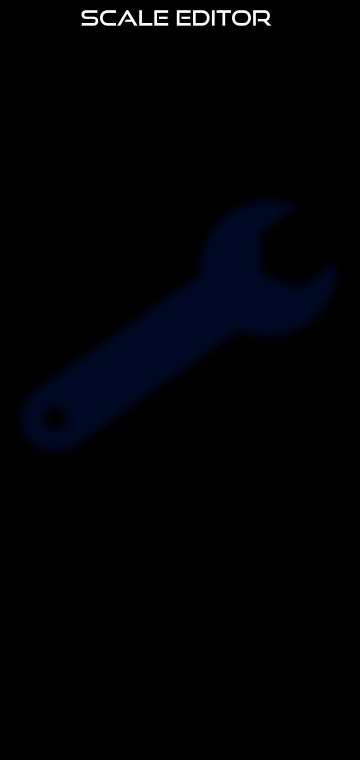
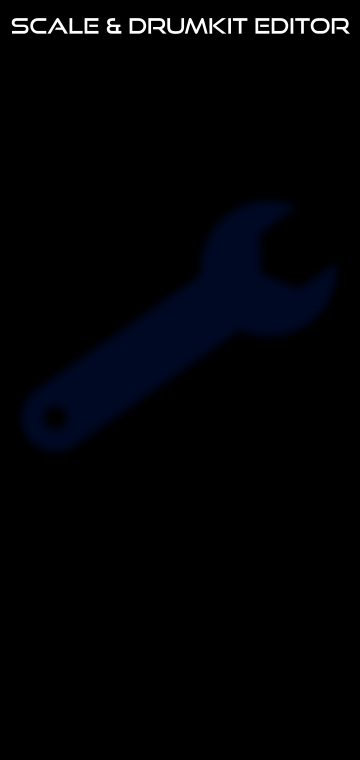
Scale editor: edit name and alt symbols
* Dynamic scaleEditor widget
* Editable scale name and alt symbols
* Use new onCloseRequest
* Callbacks changed
* Background image: Add 'drumkit'

Changed region(s): [[0.0306, 0.0, 0.9778, 0.0605]]

diff --git a/src/BSEQuencer_GUI.cpp b/src/BSEQuencer_GUI.cpp
@@ -86,7 +86,8 @@ BSEQuencer_GUI::BSEQuencer_GUI (const char *bundle_path, const LV2_Feature *cons
 	propertiesScaleListBox (100, 175, 150, 20, 0, -380, 150, 380, "menu", scaleItems, 0.0),
 
 	helpLabel (1140, 40, 30, 30, "ilabel", "?"),
-	scaleEditor (420, 20, 360, 760, "scaleeditor", (bundle_path ? std::string (bundle_path) : std::string ("")), 0, ScaleMap (), BScale (0,defaultScale))
+	scaleEditor (nullptr)
+	//(420, 20, 360, 760, "scaleeditor", (bundle_path ? std::string (bundle_path) : std::string ("")), 0, ScaleMap (), BScale (0,defaultScale))
 
 {
 	// Init scale maps
@@ -196,7 +197,6 @@ BSEQuencer_GUI::BSEQuencer_GUI (const char *bundle_path, const LV2_Feature *cons
 
 	helpLabel.setCallbackFunction(BEvents::BUTTON_PRESS_EVENT, helpPressedCallback);
 	propertiesScaleEditIcon.setCallbackFunction(BEvents::BUTTON_PRESS_EVENT, editPressedCallback);
-	scaleEditor.setCallbackFunction(BEvents::VALUE_CHANGED_EVENT, editorCloseCallback);
 
 	// Apply theme
 	bgImageSurface = cairo_image_surface_create_from_png ((pluginPath + BG_FILE).c_str());
@@ -321,8 +321,11 @@ BSEQuencer_GUI::BSEQuencer_GUI (const char *bundle_path, const LV2_Feature *cons
 
 BSEQuencer_GUI::~BSEQuencer_GUI ()
 {
+	if (scaleEditor) delete scaleEditor;
+
 	BWidgets::FocusWidget* focus = padSurface.getFocusWidget();
 	if (focus) delete focus;
+
 	send_ui_off ();
 }
 
@@ -664,7 +667,7 @@ void BSEQuencer_GUI::scale ()
 	propertiesScaleListBox.resizeListBoxItems (150 * sz, 20 * sz);
 
 	RESIZE (helpLabel, 1140, 40, 30, 30, sz);
-	RESIZE (scaleEditor, 420, 20, 360, 760, sz);
+	if (scaleEditor) RESIZE ((*scaleEditor), 420, 20, 360, 760, sz);
 
 	for (int i = 0; i < NR_SEQUENCER_CHS; ++i)
 	{
@@ -802,6 +805,33 @@ void BSEQuencer_GUI::onConfigureRequest (BEvents::ExposeEvent* event)
 
 	sz = (width_ / 1200 > height_ / 820 ? height_ / 820 : width_ / 1200);
 	scale ();
+}
+
+void BSEQuencer_GUI::onCloseRequest (BEvents::WidgetEvent* event)
+{
+	if (event && (scaleEditor) && (event->getRequestWidget () == scaleEditor))
+	{
+		int mapNr = scaleEditor->getMapNr();
+		scaleNotes[mapNr] = scaleEditor->getScale().getScale();
+		scaleMaps[mapNr] = scaleEditor->getScaleMap();
+
+		// Update captions
+		if (controllers[SCALE] == mapNr) drawCaption();
+
+		// Update scale listbox
+		BItems::ItemList::iterator it = std::next (propertiesScaleListBox.getItemList()->begin (), mapNr);
+		BWidgets::Label* l = (BWidgets::Label*) (*it).getWidget ();
+		if (l) l->setText (scaleMaps[mapNr].name);
+		propertiesScaleListBox.update();
+
+		// Notify plugin
+		send_scaleMaps (mapNr);
+
+		// And close / delete
+		delete scaleEditor;
+		scaleEditor = nullptr;
+	}
+	else Window::onCloseRequest (event);
 }
 
 void BSEQuencer_GUI::send_ui_on ()
@@ -950,22 +980,23 @@ void BSEQuencer_GUI::editPressedCallback (BEvents::Event* event)
 		BSEQuencer_GUI* ui = (BSEQuencer_GUI*)(((BWidgets::Widget*)(event->getWidget()))->getMainWindow());
 		int mapNr = ui->propertiesScaleListBox.getValue();
 
-		if (ui->scaleEditor.getParent()) ui->scaleEditor.getParent()->release (&(ui->scaleEditor));
-
-		ui->scaleEditor.setValue (0.0);
-		ui->scaleEditor.setMapNr (mapNr);
-		ui->scaleEditor.setScale
-		(
-			BScale
+		if (!ui->scaleEditor)
+		{
+			ui->scaleEditor = new ScaleEditor
 			(
-				(int (ui->controllers[ROOT] + ui->controllers[SIGNATURE] + 12)) % 12,
-				(SignatureIndex) ui->controllers[SIGNATURE],
-				ui->scaleNotes[mapNr]
-			)
-		);
-		ui->scaleEditor.setScaleMap (ui->scaleMaps[mapNr]);
-		ui->scaleEditor.moveTo (420, 20);
-		ui->add (ui->scaleEditor);
+				420, 20, 360, 760, "scaleeditor",
+				ui->pluginPath,
+				mapNr,
+				ui->scaleMaps[mapNr],
+				BScale
+				(
+					(int (ui->controllers[ROOT] + ui->controllers[SIGNATURE] + 12)) % 12,
+					(SignatureIndex) ui->controllers[SIGNATURE],
+					ui->scaleNotes[mapNr]
+				)
+			);
+			ui->add (*ui->scaleEditor);
+		}
 	}
 }
 
@@ -1023,30 +1054,6 @@ void BSEQuencer_GUI::undoClickedCallback (BEvents::Event* event)
 				ui->drawPad ();
 			}
 		}
-	}
-}
-
-void BSEQuencer_GUI::editorCloseCallback (BEvents::Event* event)
-{
-	if ((event) && (event->getWidget ()) && (event->getWidget()->getMainWindow()))
-	{
-		ScaleEditor* scaleEditor = (ScaleEditor*)(event->getWidget());
-		BSEQuencer_GUI* ui = (BSEQuencer_GUI*)(scaleEditor->getMainWindow());
-		double val = scaleEditor->getValue();
-		if (val == 1.0)
-		{
-			int mapNr = scaleEditor->getMapNr();
-			ui->scaleNotes[mapNr] = scaleEditor->getScale().getScale();
-			ui->scaleMaps[mapNr] = scaleEditor->getScaleMap();
-
-			// Update captions
-			if (ui->controllers[SCALE] == mapNr) ui->drawCaption();
-
-			// Notify plugin
-			ui->send_scaleMaps (mapNr);
-		}
-
-		if ((val == 1.0) || (val == -1.0)) ui->release (scaleEditor);
 	}
 }
 

diff --git a/src/ScaleEditor.hpp b/src/ScaleEditor.hpp
@@ -55,6 +55,8 @@ protected:
 	static void symbolListboxValueChangedCallback (BEvents::Event* event);
 	static void noteListboxValueChangedCallback (BEvents::Event* event);
 	static void buttonClickCallback (BEvents::Event* event);
+	static void labelClickCallback (BEvents::Event* event);
+	static void labelMessageCallback (BEvents::Event* event);
 	static void pianoClickCallback (BEvents::Event* event);
 
 	BWidgets::Label nameLabel;
@@ -161,6 +163,10 @@ ScaleEditor::ScaleEditor(const double x, const double y, const double width, con
 	bgSurface = cairo_image_surface_create_from_png ((pluginPath + "ScaleEditor.png").c_str());
 	scaleEditorBg.loadFillFromCairoSurface(bgSurface);
 
+	scaleNameLabel.setEditable (true);
+	scaleNameLabel.setCallbackFunction(BEvents::BUTTON_PRESS_EVENT, labelClickCallback);
+	scaleNameLabel.setCallbackFunction(BEvents::MESSAGE_EVENT, labelMessageCallback);
+
 	// Create note symbols (for nrListbox)
 	BScale sc = BScale(0, {CROMATICSCALE});
 	std::list<BItems::Item> noteNameItems;
@@ -212,6 +218,9 @@ ScaleEditor::ScaleEditor(const double x, const double y, const double width, con
 
 		nrAltSymbolLabel[i] = BWidgets::Label (248, 580 - i * 30, 80, 24, "ctlabel", "");
 		nrAltSymbolLabel[i].rename ("ctlabel");
+		nrAltSymbolLabel[i].setEditable (true);
+		nrAltSymbolLabel[i].setCallbackFunction(BEvents::BUTTON_PRESS_EVENT, labelClickCallback);
+		nrAltSymbolLabel[i].setCallbackFunction(BEvents::MESSAGE_EVENT, labelMessageCallback);
 		updateAltSymbol (i);
 		nrAltSymbolLabel[i].applyTheme (theme);
 		add (nrAltSymbolLabel[i]);
@@ -484,6 +493,67 @@ void ScaleEditor::buttonClickCallback (BEvents::Event* event)
 
 			if (button == &(scaleEditor->cancelButton)) scaleEditor->setValue (-1.0);
 			else if (button == &(scaleEditor->applyButton)) scaleEditor->setValue (1.0);
+			scaleEditor->postCloseRequest ();
+		}
+	}
+}
+
+void ScaleEditor::labelClickCallback (BEvents::Event* event)
+{
+	if ((event) && (event->getEventType() == BEvents::BUTTON_PRESS_EVENT) && (event->getWidget()))
+	{
+		BWidgets::Label* label = (BWidgets::Label*) event->getWidget();
+		if (label->getParent ())
+		{
+			ScaleEditor* scaleEditor = (ScaleEditor*)(label->getParent());
+
+			// Switch off edit mode for all other editable labels
+			if (label == &scaleEditor->scaleNameLabel)
+			{
+				for (BWidgets::Label& l : scaleEditor->nrAltSymbolLabel)
+				{
+					if (l.getEditMode ()) l.applyEdit ();
+				}
+			}
+
+			else
+			{
+				if (scaleEditor->scaleNameLabel.getMainWindow ()) scaleEditor->scaleNameLabel.getMainWindow ()->removeKeyGrab (&scaleEditor->scaleNameLabel);
+				scaleEditor->scaleNameLabel.setEditMode (false);
+				for (BWidgets::Label& l : scaleEditor->nrAltSymbolLabel)
+				{
+					if ((label != &l) && l.getEditMode ()) l.applyEdit ();
+				}
+			}
+		}
+	}
+}
+
+void ScaleEditor::labelMessageCallback (BEvents::Event* event)
+{
+	if ((event) && (event->getEventType() == BEvents::MESSAGE_EVENT) && (event->getWidget()))
+	{
+		BEvents::MessageEvent* me = (BEvents::MessageEvent*) event;
+
+		if (me->getName () == BWIDGETS_LABEL_TEXT_CHANGED_MESSAGE)
+		{
+			BWidgets::Label* label = (BWidgets::Label*) event->getWidget();
+			if (label->getParent ())
+			{
+				ScaleEditor* scaleEditor = (ScaleEditor*)(label->getParent());
+
+				if (label == &scaleEditor->scaleNameLabel) strncpy (scaleEditor->scaleMap.name, scaleEditor->scaleNameLabel.getText ().c_str (), 63);
+
+				else for (size_t i = 0; i < ROWS; ++i)
+				{
+					BWidgets::Label* l = &scaleEditor->nrAltSymbolLabel[i];
+					if (label == l)
+					{
+						strncpy (scaleEditor->scaleMap.altSymbols[i], l->getText ().c_str (), 15);
+						break;
+					}
+				}
+			}
 		}
 	}
 }

diff --git a/src/BSEQuencer_GUI.hpp b/src/BSEQuencer_GUI.hpp
@@ -83,6 +83,7 @@ public:
 	void send_pad (int row, int step);
 	void send_scaleMaps (int scaleNr);
 	virtual void onConfigureRequest (BEvents::ExposeEvent* event) override;
+	virtual void onCloseRequest (BEvents::WidgetEvent* event) override;
 	void applyTheme (BStyles::Theme& theme) override;
 
 	LV2UI_Controller controller;
@@ -97,7 +98,6 @@ private:
 	static void padsPressedCallback (BEvents::Event* event);
 	static void padsScrolledCallback (BEvents::Event* event);
 	static void padsFocusedCallback (BEvents::Event* event);
-	static void editorCloseCallback (BEvents::Event* event);
 	void scale ();
 	void scaleFocus ();
 	void drawCaption ();
@@ -252,7 +252,7 @@ private:
 	std::array<ChBox, NR_SEQUENCER_CHS> chBoxes;
 
 	CircledSymbol helpLabel;
-	ScaleEditor scaleEditor;
+	ScaleEditor* scaleEditor;
 
 	// Definition of styles
 	BColors::ColorSet fgColors = {{{0.0, 0.25, 0.75, 1.0}, {0.25, 0.75, 0.75, 1.0}, {0.0, 0.0, 0.1, 1.0}, {0.0, 0.0, 0.0, 0.0}}};
